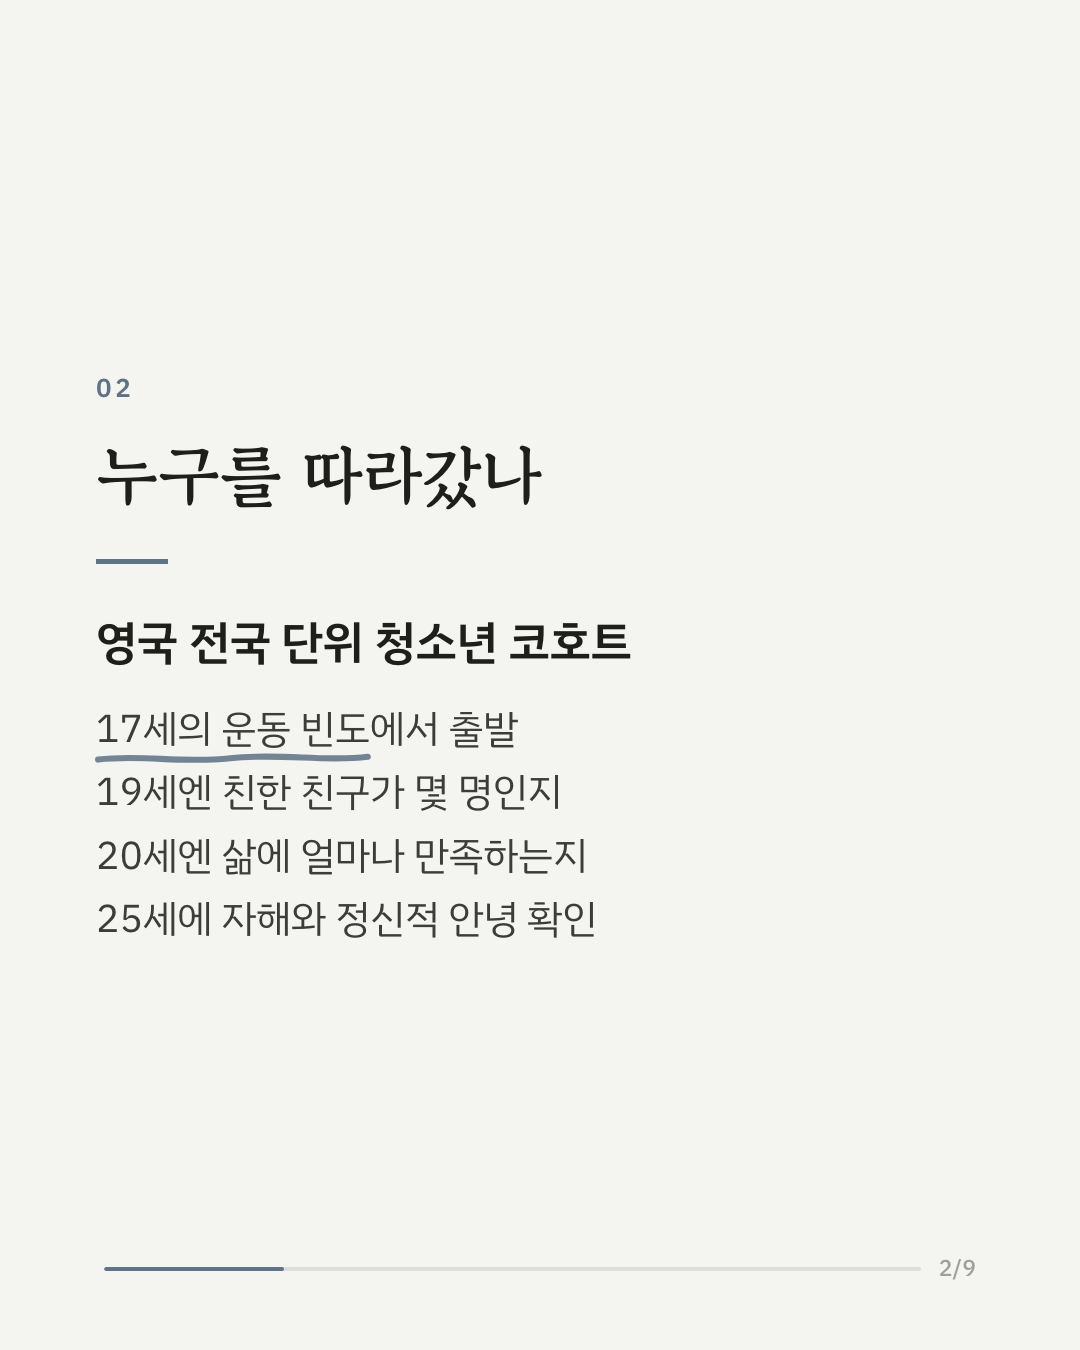
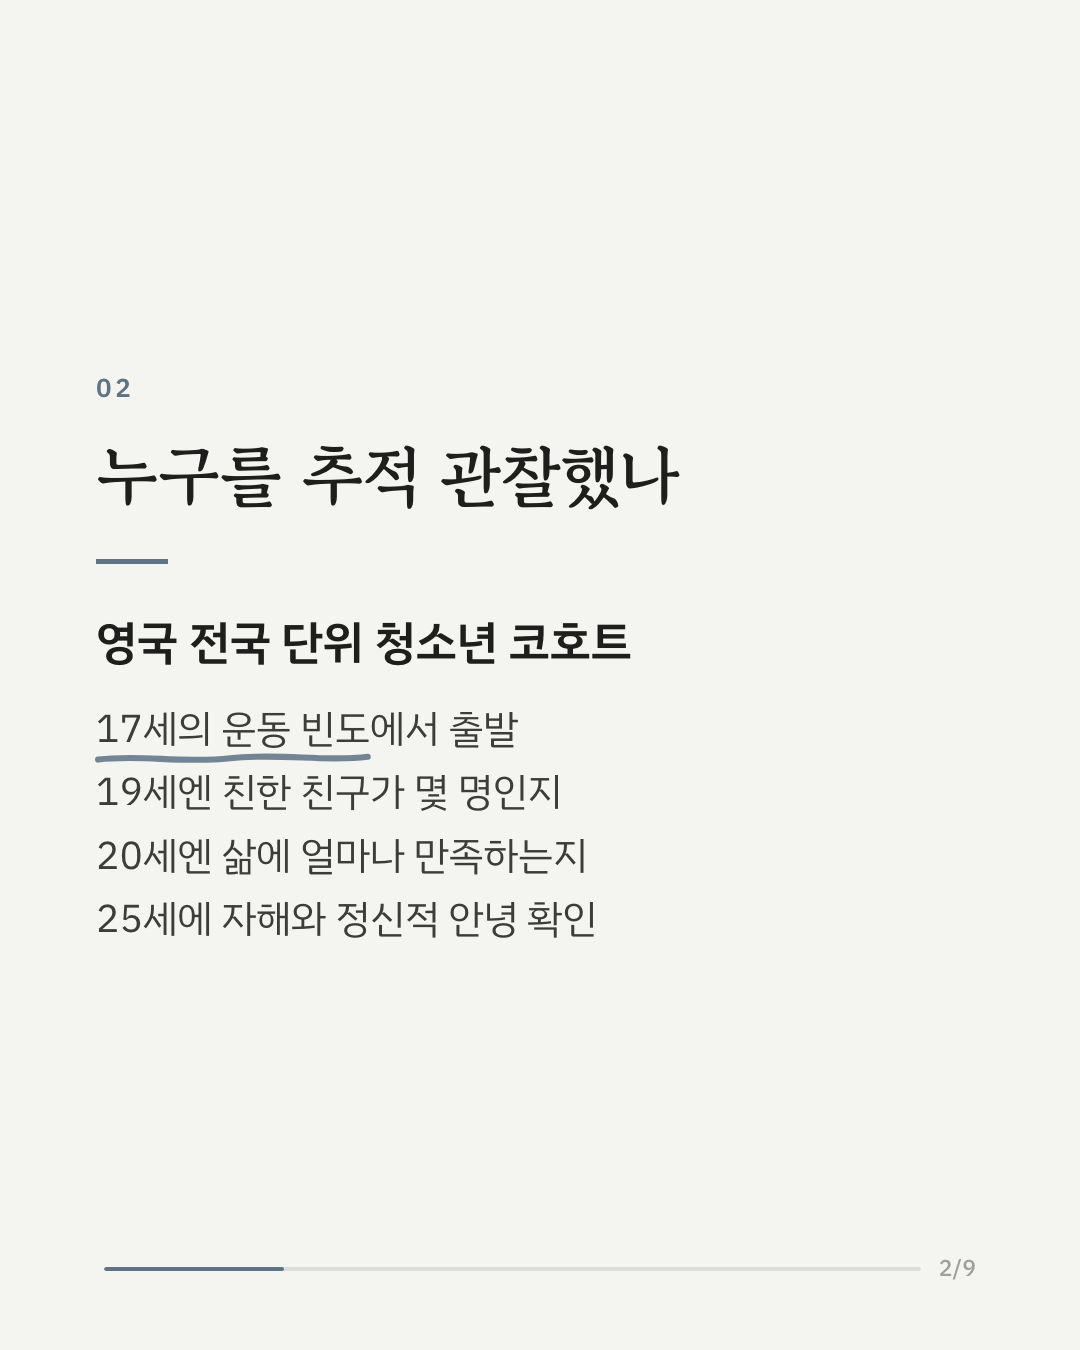
fix 42839767 wording

Changed region(s): [[0.275, 0.3111, 0.6417, 0.3733]]

diff --git a/42839767/preview.html b/42839767/preview.html
@@ -15,6 +15,6 @@ details{color:#cbbfb4} summary{cursor:pointer}
 <div class="top"><span>운동한 청소년, 자해 위험 낮았다</span><span>10장 · 자해자살</span></div>
 <div class="gal"><img src="01.png" alt="슬라이드 1" loading="lazy"><img src="02.png" alt="슬라이드 2" loading="lazy"><img src="03.png" alt="슬라이드 3" loading="lazy"><img src="04.png" alt="슬라이드 4" loading="lazy"><img src="05.png" alt="슬라이드 5" loading="lazy"><img src="06.png" alt="슬라이드 6" loading="lazy"><img src="07.png" alt="슬라이드 7" loading="lazy"><img src="08.png" alt="슬라이드 8" loading="lazy"><img src="09.png" alt="슬라이드 9" loading="lazy"><img src="10.png" alt="슬라이드 10" loading="lazy"></div>
 <div class="bot">
-<details><summary>캡션 보기</summary><p style="font-size:13px;line-height:1.6">청소년기 운동이 훗날의 자해와 정신건강에 어떤 관련이 있는지 살펴본 연구입니다. 영국 전국 단위 코호트에 참여한 청소년 7,361명을 17세부터 25세까지 따라갔습니다.  연구진은 17세의 운동 빈도, 19세의 친한 친구 수, 20세의 삶의 만족도, 25세의 자해와 정신적 안녕을 차례로 확인했습니다. 그 결과 운동을 자주 한 청소년일수록 25세 무렵 자해 위험이 낮고 정신적 안녕도 더 좋은 편이었습니다. 이 관계는 친한 친구가 늘고, 그다음 삶의 만족도가 높아지는 흐름을 거쳐 이어지는 것으로 나타났습니다.  운동이 몸 건강을 넘어 친구 관계를 넓히는 기회가 될 수 있고, 청소년 자해 예방 전략으로 더 검토해 볼 근거가 생겼다는 점에서 의미가 있습니다. 다만 친구 관계는 친한 친구의 수로만 측정해 관계의 질은 알 수 없고, 관찰 연구라 운동이 직접적인 원인이라고 말하기는 어렵습니다.  Suicide &amp; Life-Threatening Behavior (2026), &#x27;Improved Social Functioning Mediated the Effects of Adolescents&#x27; Sports Participation on Self-Harm and Psychological Wellbeing: A Prospective Cohort Study&#x27;  힘든 마음이 들 때는 자살예방상담전화 109, 정신건강상담전화 1577-0199에서 도움을 받을 수 있습니다.  DOI: 10.1111/sltb.70141  #임상심리 #정신건강정보 #심리학연구 #논문리뷰 #청소년정신건강 #자해예방 #운동과정신건강 #삶의만족도</p></details>
+<details><summary>캡션 보기</summary><p style="font-size:13px;line-height:1.6">청소년기 운동이 훗날의 자해와 정신건강에 어떤 관련이 있는지 살펴본 연구입니다. 영국 전국 단위 코호트에 참여한 청소년 7,361명을 17세부터 25세까지 추적 관찰했습니다.  연구진은 17세의 운동 빈도, 19세의 친한 친구 수, 20세의 삶의 만족도, 25세의 자해와 정신적 안녕을 차례로 확인했습니다. 그 결과 운동을 자주 한 청소년일수록 25세 무렵 자해 위험이 낮고 정신적 안녕도 더 좋은 편이었습니다. 이 관계는 친한 친구가 늘고, 그다음 삶의 만족도가 높아지는 흐름을 거쳐 이어지는 것으로 나타났습니다.  운동이 몸 건강을 넘어 친구 관계를 넓히는 기회가 될 수 있고, 청소년 자해 예방 전략으로 더 검토해 볼 근거가 생겼다는 점에서 의미가 있습니다. 다만 친구 관계는 친한 친구의 수로만 측정해 관계의 질은 알 수 없고, 관찰 연구라 운동이 직접적인 원인이라고 말하기는 어렵습니다.  Suicide &amp; Life-Threatening Behavior (2026), &#x27;Improved Social Functioning Mediated the Effects of Adolescents&#x27; Sports Participation on Self-Harm and Psychological Wellbeing: A Prospective Cohort Study&#x27;  힘든 마음이 들 때는 자살예방상담전화 109, 정신건강상담전화 1577-0199에서 도움을 받을 수 있습니다.  DOI: 10.1111/sltb.70141  #임상심리 #정신건강정보 #심리학연구 #논문리뷰 #청소년정신건강 #자해예방 #운동과정신건강 #삶의만족도</p></details>
 <span>원문: <a href="https://pubmed.ncbi.nlm.nih.gov/42839767/" target="_blank" rel="noopener">PubMed</a> · <a href="https://doi.org/10.1111/sltb.70141" target="_blank" rel="noopener">원문(DOI)</a> · 승인: <code>python3 publish.py 42839767</code></span>
 </div></body></html>
